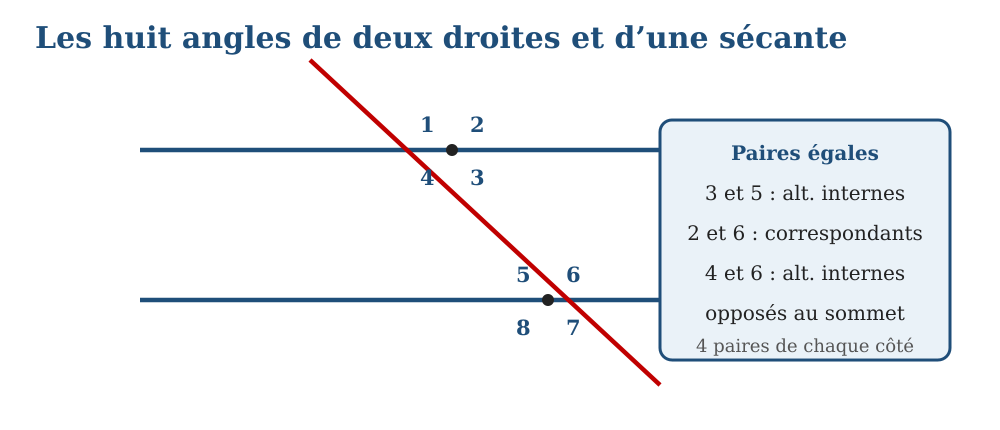
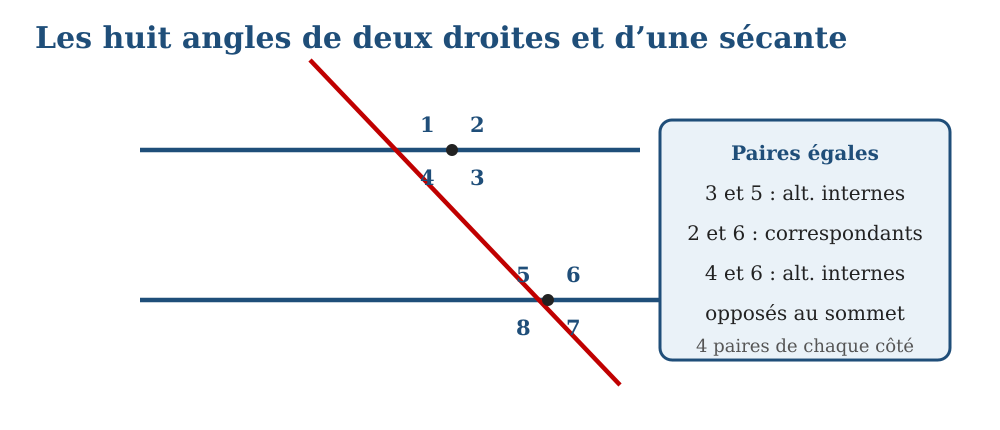
T7 U4: 11 scenes (10 IA + roue web provisoire)

diff --git a/scripts/t7/u4_figs2.js b/scripts/t7/u4_figs2.js
@@ -42,7 +42,7 @@ svgPng('t7u4s6_opp', svgHead(1000,430,'Opposés par le sommet : ils sont égaux'
 <circle cx="375" cy="230" r="7" fill="#222"/>
 <path d="M470 214 A 100 100 0 0 1 478 160" fill="none" stroke="#C00000" stroke-width="4"/>
 <path d="M280 246 A 100 100 0 0 1 272 300" fill="none" stroke="#C00000" stroke-width="4"/>
-<text x="525" y="168" font-size="26" fill="#C00000" font-weight="bold">40°</text>
+<text x="550" y="150" font-size="26" fill="#C00000" font-weight="bold">40°</text>
 <text x="225" y="322" font-size="26" fill="#C00000" font-weight="bold">40°</text>
 <path d="M276 160 A 100 100 0 0 1 280 214" fill="none" stroke="#1F4E79" stroke-width="4"/>
 <path d="M474 300 A 100 100 0 0 1 470 246" fill="none" stroke="#1F4E79" stroke-width="4"/>
@@ -89,9 +89,9 @@ svgPng('t7u4s7_corr', svgHead(1000,430,'Les angles correspondants') + `
 
 svgPng('t7u4s7_huit', svgHead(1000,430,'Les huit angles de deux droites et d’une sécante') + `
 <g font-family="serif">
-<line x1="140" y1="150" x2="860" y2="150" stroke="#1F4E79" stroke-width="4.5"/>
-<line x1="140" y1="300" x2="860" y2="300" stroke="#1F4E79" stroke-width="4.5"/>
-<line x1="310" y1="60" x2="660" y2="385" stroke="#C00000" stroke-width="4.5"/>
+<line x1="140" y1="150" x2="640" y2="150" stroke="#1F4E79" stroke-width="4.5"/>
+<line x1="140" y1="300" x2="930" y2="300" stroke="#1F4E79" stroke-width="4.5"/>
+<line x1="310" y1="60" x2="620" y2="385" stroke="#C00000" stroke-width="4.5"/>
 <circle cx="452" cy="150" r="6" fill="#222"/>
 <circle cx="548" cy="300" r="6" fill="#222"/>
 <text x="420" y="132" font-size="21" fill="#1F4E79" font-weight="bold">1</text>

diff --git a/scripts/t7/lib.js b/scripts/t7/lib.js
@@ -125,8 +125,8 @@ function trace(s){
  if(s.method) a.push(title('Méthode',2),...s.method.map((x,i)=>p(`${i+1}. ${x}`)));
  a.push(examplePara(s.example+' '+s.worked));
  a.push(errorPara(s.error[0],s.error[1]));
- a.push(title('EXERCICES',1),p(`1. ${s.app[0]}`),p(`2. ${s.app[1]}`),p(`3. ${s.app[2]}`));
- a.push(title('CORRIGÉS',1),correction('1. ',s.ans[0]),correction('2. ',s.ans[1]),correction('3. ',s.ans[2]));
+ a.push(title('EXERCICES',1),...s.app.map((x,i)=>p(`${i+1}. ${x}`)));
+ a.push(title('CORRIGÉS',1),...s.ans.map((x,i)=>correction(`${i+1}. `,x)));
  return a;
 }
 
